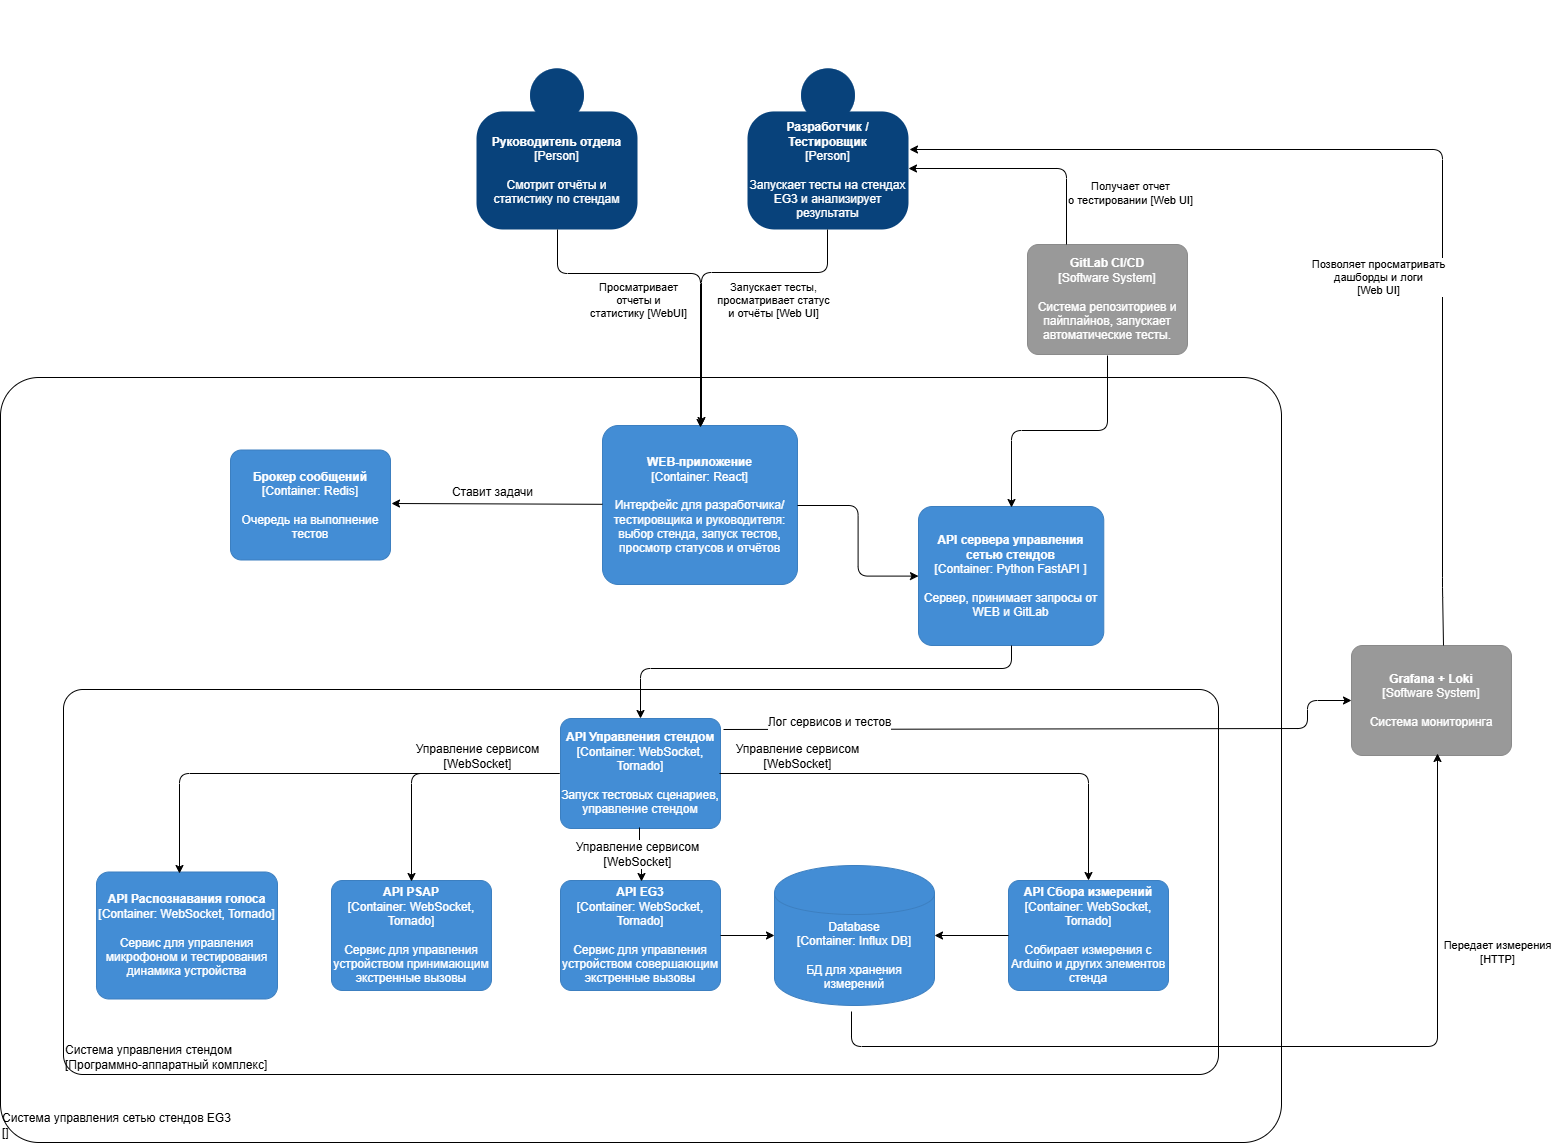
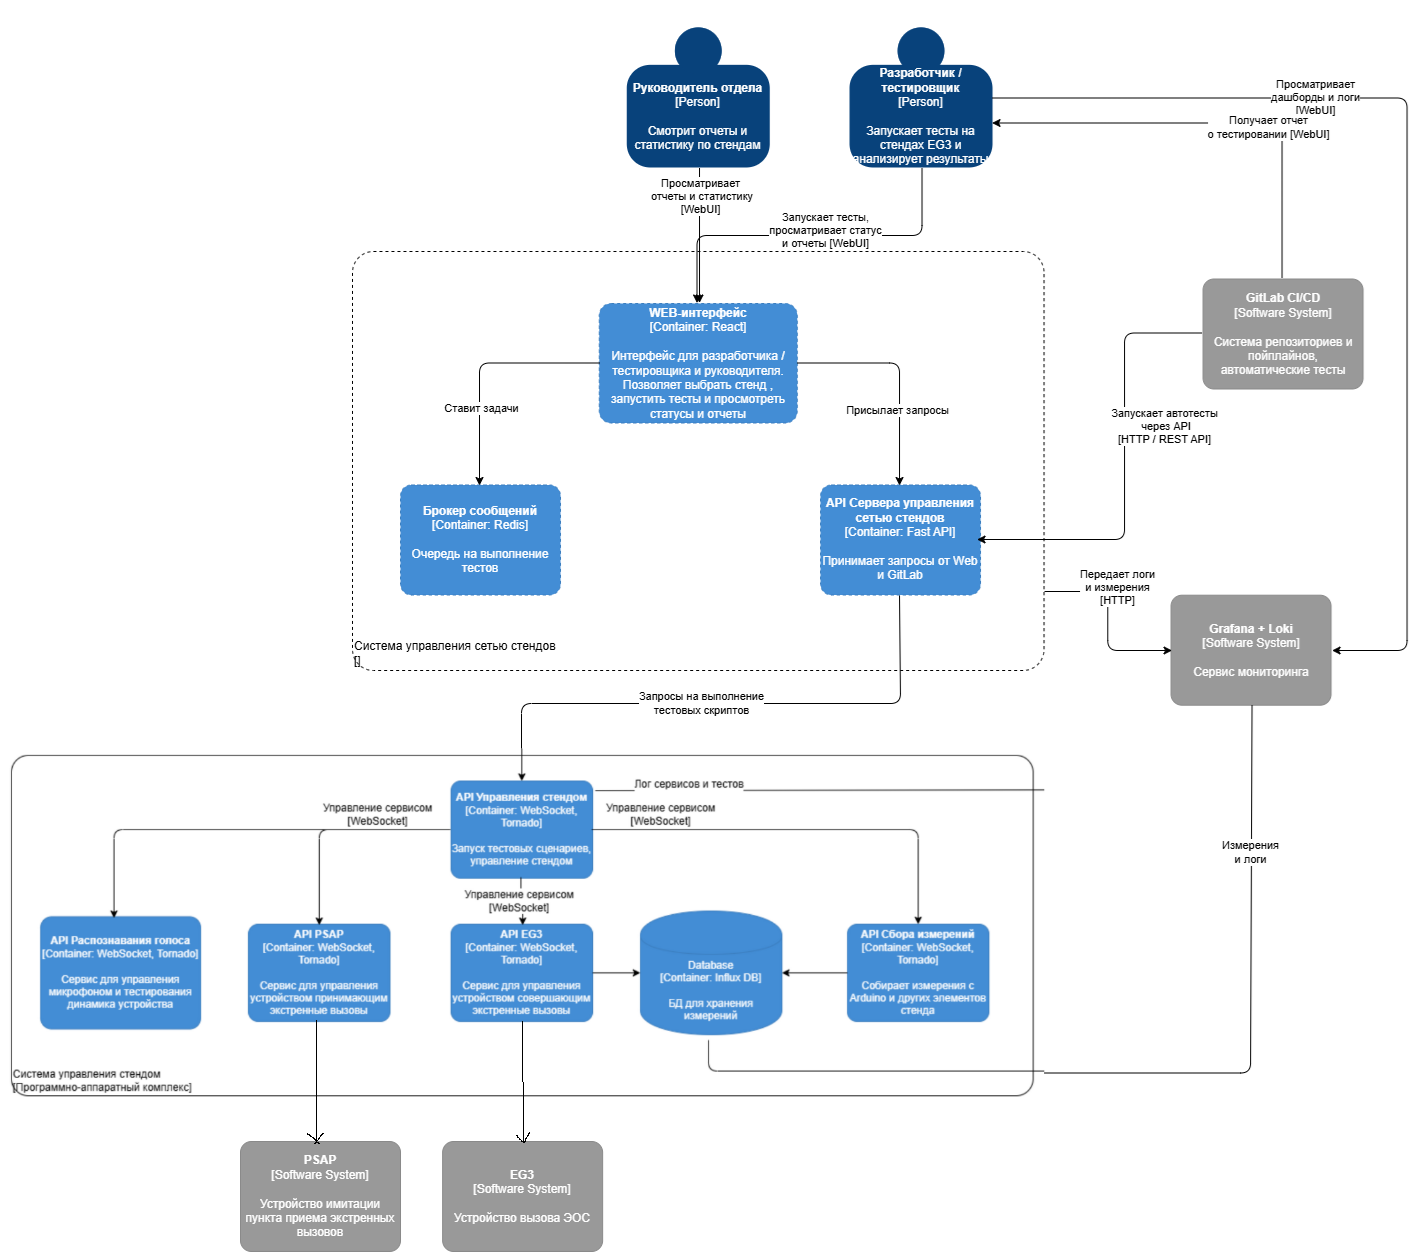
lab 2 новые диаграммы

diff --git a/Lab Work №2/docs/README.md b/Lab Work №2/docs/README.md
@@ -1,4 +1,5 @@
 # Лабораторная работа №2
+### Левин Михаил РИС-22-1
 **Тема:** Использование нотации C4 model для проектирования архитектуры программной системы
 **Цель работы:** Получить опыт использования графической нотации для фиксации архитектурных решений
 ## Диаграмма системного контекста

diff --git a/README.md b/README.md
@@ -1,4 +1,5 @@
 # Репозиторий по дисциплине "Проектирование архитектуры программных систем"
+### Левин Михаил РИС-22-1
 
 **Тема: Разработка программного обеспечения для автоматизации тестирования устройства вызова экстренных оперативных служб**
 
